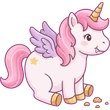
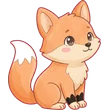
Fix art consistency: style references, a real Fox, new Sky Map art
New pictures now pass two or three existing pictures as style
references (match the style, not the subject), so they look like the
same artist drew them. Regenerated the Sky Map islands, Star Gate,
forest hub and Sky Map backgrounds this way, and fixed Fox, who had been
generated as a pink alicorn (copied from the old single reference).
Mystery islands are no longer darkened by a tint. The debug kit's go()
now works from the Sky Map.

Claude-Session: https://claude.ai/code/session_01U1281g2b16bzH7jgRRnq7y

diff --git a/src/core/scenes/SkyMapScene.ts b/src/core/scenes/SkyMapScene.ts
@@ -61,7 +61,8 @@ export class SkyMapScene extends Phaser.Scene {
       const img = this.add.image(px, py, texture);
       img.setScale(Math.min(1, 230 / img.width));
       this.tweens.add({ targets: img, y: py - 10, duration: 1800 + Math.random() * 600, yoyo: true, repeat: -1, ease: 'Sine.inOut' });
-      if (o.locked || !o.target) img.setTint(0xb8b0d0);
+      // Kingdoms that are still locked look faded; mystery islands' own art already says "mystery".
+      if (o.locked && o.target) img.setAlpha(0.75);
       this.add.text(px, py + img.displayHeight / 2 + 8, o.name, titleStyle(24, { align: 'center', wordWrap: { width: 230 } })).setOrigin(0.5, 0);
       const island: Island = { ...o, x: px, y: py, img };
       img.setInteractive({ useHandCursor: true }).on('pointerdown', () => {

diff --git a/src/core/debug/debug.ts b/src/core/debug/debug.ts
@@ -49,7 +49,7 @@ export function installDebug(game: Phaser.Game) {
     /** Jump to a level; optionally to a named marker or an x position. */
     go(levelId: string, where?: string | number) {
       if (!LEVELS[levelId]) throw new Error(`Unknown level. Try: ${Object.keys(LEVELS).join(', ')}`);
-      for (const k of ['Title', 'NamePicker', 'Wardrobe', 'StickerBook', 'Puzzle']) if (running(k)) game.scene.stop(k);
+      for (const k of ['Title', 'NamePicker', 'Wardrobe', 'StickerBook', 'Puzzle', 'SkyMap', 'GrownUps']) if (running(k)) game.scene.stop(k);
       const w = world();
       w.events.once(Phaser.Scenes.Events.CREATE, () => {
         if (where !== undefined) setTimeout(() => api.teleport(where), 50);

diff --git a/README.md b/README.md
@@ -82,7 +82,7 @@ npm run assets -- --convert      # one-time: turn old PNG/WAV files into WebP/MP
 npm run assets -- --list-models  # which models your key can use
 ```
 
-- Prompts live in `tools/assets/manifest.json`. They share one style block so the art looks consistent.
+- Prompts live in `tools/assets/manifest.json`. They share one style block, **and every new picture should list `styleRefs`**: two or three existing pictures whose style the model must match (line weight, colors, watercolor shading) without copying their subjects. The style text alone isn't enough, and the model drifts without them. `ref` is different: it means "this is the same character", as with the alicorn manes.
 - Only `alicorn-pink` is generated. The other manes (`"kind": "recolor"`) are made from it by changing the color of just the mane and tail, so it's always the same pony. To try a new shade, edit its `hue`/`sat`/`val` and run `npm run assets -- --rekey --only alicorn-*`. That's free and instant. If you ever regenerate `alicorn-pink`, run that same command afterwards.
 - Sprites are generated on magenta, which is then cut out. The untouched originals are kept in `tools/assets/raw/`.
 - **Small and lazy.** Pictures ship as WebP and sound as MP3 (a bundled ffmpeg does the encoding). Only "core" pictures load at start-up, about 0.7 MB. A kingdom's own pictures (`"bundle": "forest"` in the manifest) load when she flies there. Voices and music load the first time they play, and the music box covers the moment while a track loads.
